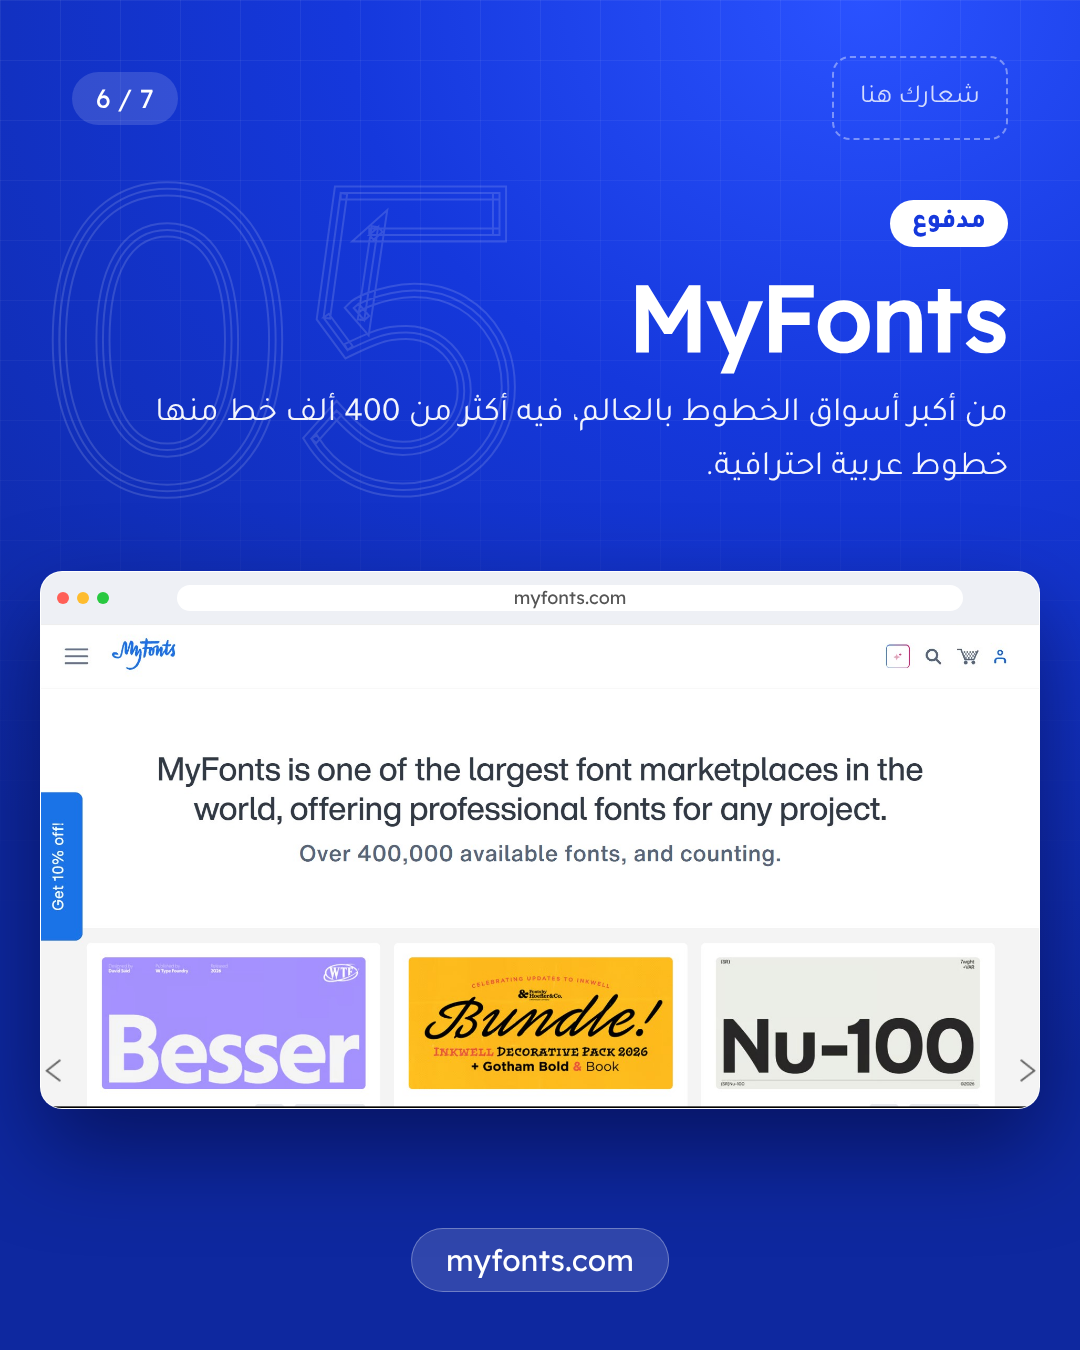
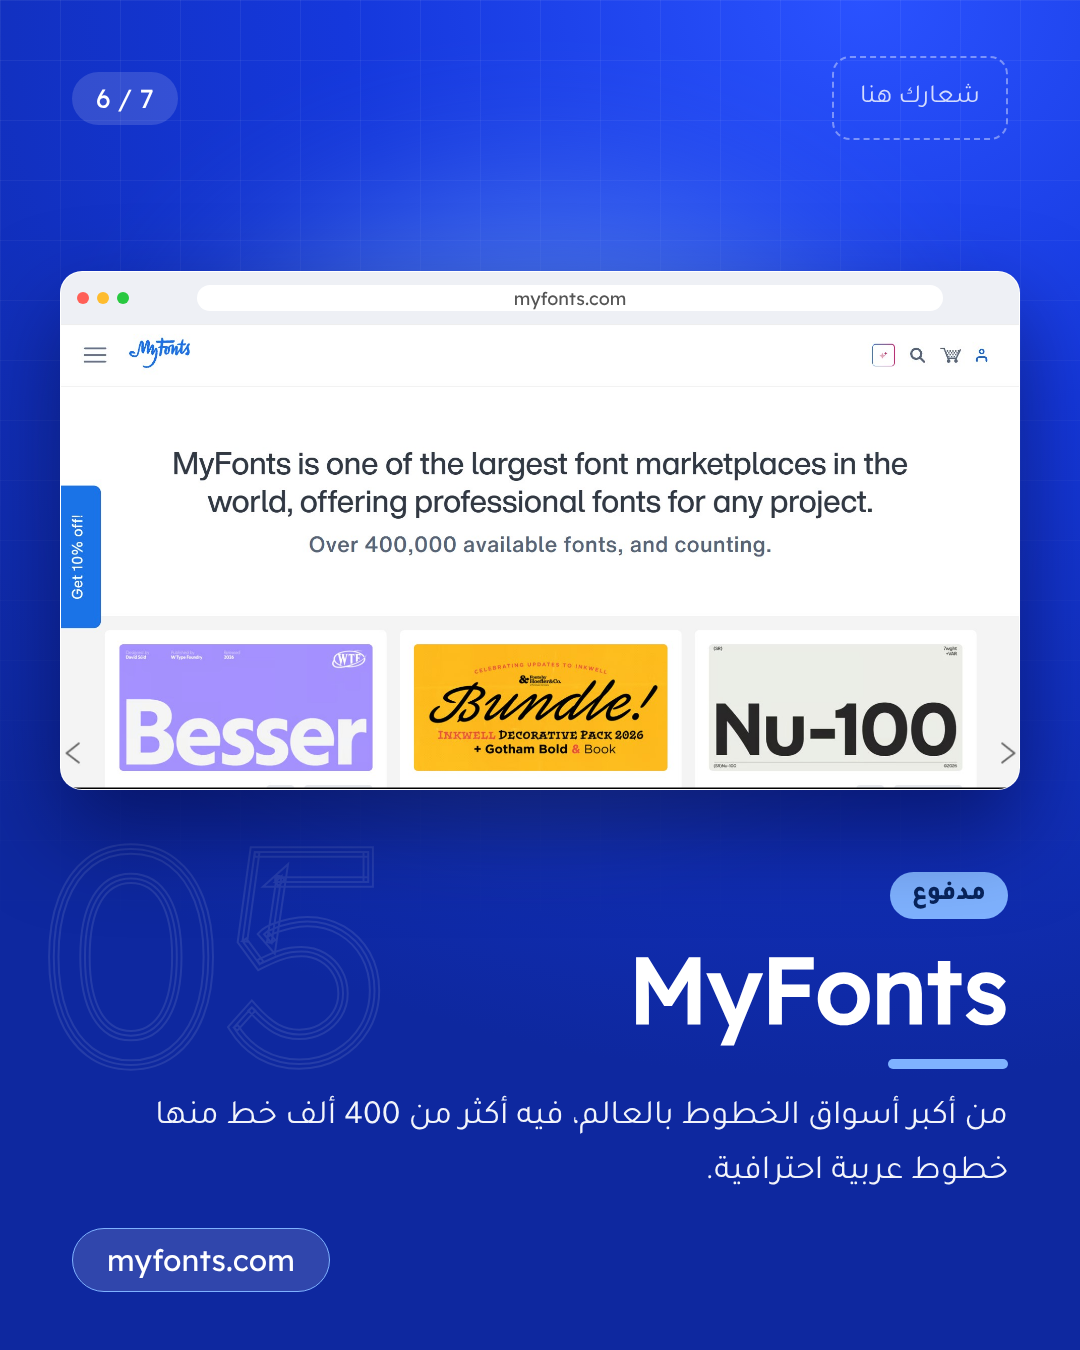
Give each site slide its own layout and accent colour
Claude-Session: https://claude.ai/code/session_01HmuEa4Kje77rHMqSMNYbVn

diff --git a/arabic-fonts-posts/build.py b/arabic-fonts-posts/build.py
@@ -5,15 +5,15 @@ HERE = pathlib.Path(__file__).parent
 BLUE, DARK = "#1538dc", "#0e289f"
 
 SITES = [
- dict(n="01", name="Alfont", url="alfont.com", tag="مجاني",
+ dict(n="01", acc="#1ff79a", ink="#06331f", lay="bleed-l", name="Alfont", url="alfont.com", tag="مجاني",
       desc="آلاف الخطوط العربية، تكتب النص اللي تبيه وتشوف معاينته بكل الخطوط قبل التحميل.", fonts=[]),
- dict(n="02", name="29LT", url="29lt.com", tag="احترافي",
+ dict(n="02", acc="#ff4b55", ink="#fff", lay="top", name="29LT", url="29lt.com", tag="احترافي",
       desc="مسبك خطوط عربي احترافي، خطوطه مصممة بعناية ومعها خط لاتيني متناسق.", fonts=[]),
- dict(n="03", name="1001 Free Fonts", url="1001freefonts.com", tag="مجاني",
+ dict(n="03", acc="#ffffff", ink="#111", lay="tilt", name="1001 Free Fonts", url="1001freefonts.com", tag="مجاني",
       desc="موقع خطوط عالمي فيه قسم كامل للخطوط العربية. انتبه لرخصة كل خط قبل الاستخدام التجاري.", fonts=[]),
- dict(n="04", name="Adobe Fonts", url="fonts.adobe.com", tag="مع الاشتراك",
+ dict(n="04", acc="#ff3b2f", ink="#fff", lay="bleed-r", name="Adobe Fonts", url="fonts.adobe.com", tag="مع الاشتراك",
       desc="متاح مع اشتراك أدوبي، يتفعّل الخط مباشرة داخل فوتوشوب وإليستريتور.", fonts=[]),
- dict(n="05", name="MyFonts", url="myfonts.com", tag="مدفوع",
+ dict(n="05", acc="#7fb2ff", ink="#08245c", lay="top", name="MyFonts", url="myfonts.com", tag="مدفوع",
       desc="من أكبر أسواق الخطوط بالعالم، فيه أكثر من 400 ألف خط منها خطوط عربية احترافية.", fonts=[]),
 ]
 SAMPLE = "تصميم مميز"
@@ -79,7 +79,7 @@ h2{{font-weight:700;font-size:40px;opacity:.85;margin-top:8px}}
 def shell(inner, idx, total):
     logo = f'<img class="logo" src="{LOGO}">' if LOGO else '<div class="logo-ph">شعارك هنا</div>'
     return f"""<!doctype html><html lang="ar" dir="rtl"><head><meta charset="utf-8">
-<link href="{gf}" rel="stylesheet"><style>{CSS}</style></head><body><div class="grid"></div>
+<link href="{gf}" rel="stylesheet"><style>{CSS}{LAYOUT_CSS}</style></head><body><div class="grid"></div>
 <div class="top">{logo}<div class="count">{idx} / {total}</div></div>{inner}</body></html>"""
 
 def screen(s):
@@ -91,11 +91,32 @@ def screen(s):
     cards = "".join(f'<div class="card"><small>{f}</small><p style="font-family:\'{f}\'">{SAMPLE}</p></div>' for f in s["fonts"])
     return bar + f"""<div class="page"><div class="ph"><b>{s['name']}</b><div class="search">ابحث عن خط...</div></div><div class="cards">{cards}</div></div>"""
 
+LAYOUT_CSS = f"""
+.L-bleed-r .area{{top:500px;bottom:150px;left:80px;right:-140px}}
+.L-bleed-r .win{{border-radius:22px 0 0 22px}}
+.L-bleed-l .area{{top:500px;bottom:150px;left:-140px;right:80px}}
+.L-bleed-l .win{{border-radius:0 22px 22px 0}}
+.L-top .area{{top:150px;height:640px;left:60px;right:60px;align-items:flex-end}}
+.L-top .head{{top:auto;bottom:150px}}
+.L-top .big{{top:auto;bottom:250px;left:40px;font-size:300px;opacity:.7}}
+.L-top .url{{left:72px;transform:none}}
+.L-tilt .area{{top:520px;bottom:160px;left:110px;right:110px}}
+.L-tilt .win{{transform:rotate(-3deg)}}
+.L-tilt .ghost{{position:absolute;inset:30px 10px;border-radius:22px;transform:rotate(4deg);opacity:.25}}
+.area:before{{content:"";position:absolute;inset:10% 15%;filter:blur(90px);opacity:.55;background:var(--acc);border-radius:50%;z-index:-1}}
+.area{{isolation:isolate}}
+.tag{{background:var(--acc)!important;color:var(--ink)!important}}
+h1:after{{content:"";display:block;width:120px;height:10px;border-radius:6px;background:var(--acc);margin:22px 0 0 auto}}
+.url{{border-color:var(--acc)!important}}
+"""
+
 def site_slide(s, i, t):
-    return shell(f"""<div class="big">{s['n']}</div>
+    ghost = '<div class="ghost" style="background:var(--acc)"></div>' if s['lay']=="tilt" else ""
+    return shell(f"""<style>body{{--acc:{s["acc"]};--ink:{s["ink"]}}}</style><div class="L-{s['lay']}" style="position:absolute;inset:0;overflow:hidden">
+<div class="big">{s['n']}</div>
 <div class="head"><span class="tag">{s['tag']}</span><h1>{s['name']}</h1><div class="desc">{s['desc']}</div></div>
-<div class="area"><div class="win">{screen(s)}</div></div>
-<div class="url">{s['url']}</div>""", i, t)
+<div class="area">{ghost}<div class="win">{screen(s)}</div></div>
+<div class="url">{s['url']}</div></div>""", i, t)
 
 def cover(t):
     names = "".join(f'<li><span>{s["n"]}</span>{s["name"]}</li>' for s in SITES)
